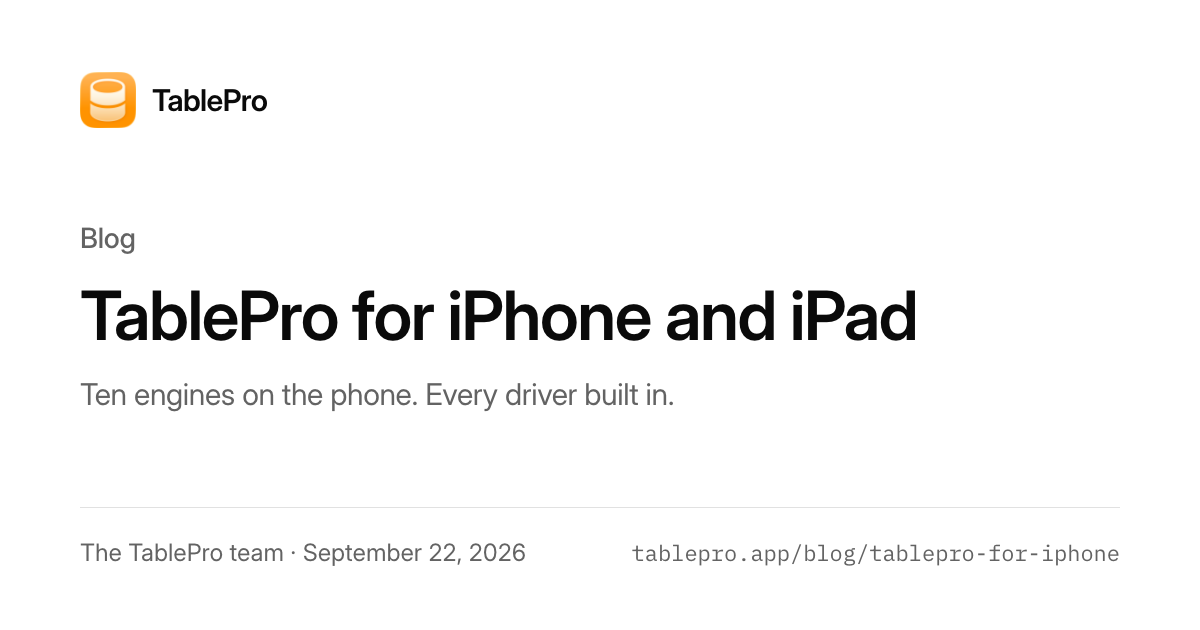
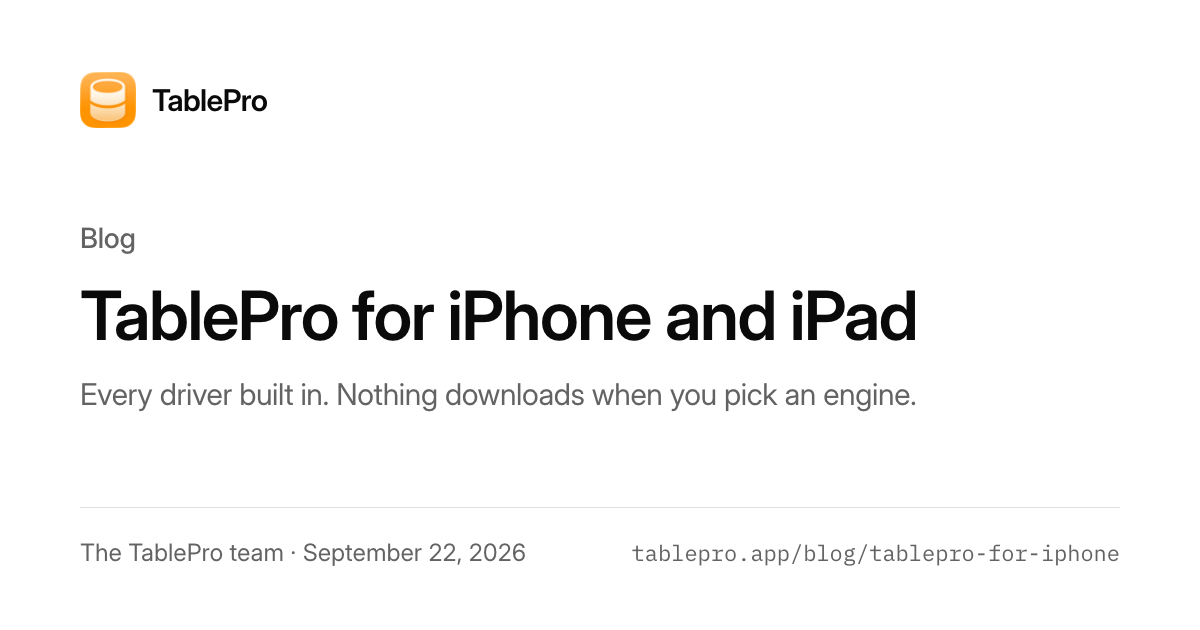
fix(blog): drop the engine count from the iPhone post's OG card

Changed region(s): [[0.0617, 0.6032, 0.7708, 0.6635]]

diff --git a/tests/Feature/Content/NoTypedCountsTest.php b/tests/Feature/Content/NoTypedCountsTest.php
@@ -1,5 +1,7 @@
 <?php
 
+use Spatie\YamlFrontMatter\YamlFrontMatter;
+
 require_once __DIR__ . '/helpers.php';
 
 /**
@@ -124,4 +126,24 @@ it('allows a competitor count only in a comparison cell that cites a source (A6)
         ->and(contentGuardIsSourcedNote('resources/data/content/en/compare/tableplus.json', 'notes.no-such-note', dated: false))->toBeFalse()
         ->and(contentGuardIsSourcedNote('resources/data/content/en/compare/tableplus.json', 'faq.0.answer', dated: false))->toBeFalse()
         ->and(contentGuardIsSourcedNote('resources/data/content/en/home.json', "notes.{$sourced}", dated: false))->toBeFalse();
+});
+
+it('counts no engines on any post’s OG card', function (): void {
+    /*
+     * A release post is exempt as an archive, but its punchline is its OG
+     * card, shared long after the count goes stale: the iPhone post's "Ten
+     * engines on the phone" left out Redshift, which opens there once synced.
+     * Engines only: "Diff two databases" is a workflow.
+     */
+    $offences = [];
+
+    foreach ([...(glob(resource_path('blog/*.md')) ?: []), ...(glob(resource_path('blog/vi/*.md')) ?: [])] as $post) {
+        $punchline = (string) YamlFrontMatter::parseFile($post)->matter('ogPunchline');
+
+        if (preg_match('/(?<![\p{L}\p{N}.,-])(?:\d+\+?|one|two|three|four|five|six|seven|eight|nine|ten|eleven|twelve|thirteen|fourteen|fifteen|twenty|thirty)\s+(?:[\p{L}-]+\s+){0,2}?engines?\b/iu', $punchline, $match) === 1) {
+            $offences[] = contentGuardRelative($post) . ": \"{$match[0]}\"";
+        }
+    }
+
+    expect($offences)->toBe([]);
 });

diff --git a/resources/blog/tablepro-for-iphone.md b/resources/blog/tablepro-for-iphone.md
@@ -7,7 +7,7 @@ date: 2026-09-22
 release: "TablePro for iPhone and iPad 1.0"
 author: TablePro Team
 tags: [release, ios, ipados, icloud-sync]
-ogPunchline: Ten engines on the phone. Every driver built in.
+ogPunchline: Every driver built in. Nothing downloads when you pick an engine.
 ---
 
 TablePro for iPhone and iPad is on the App Store. It is free, there are no in-app purchases, and it needs iOS or iPadOS 18.
